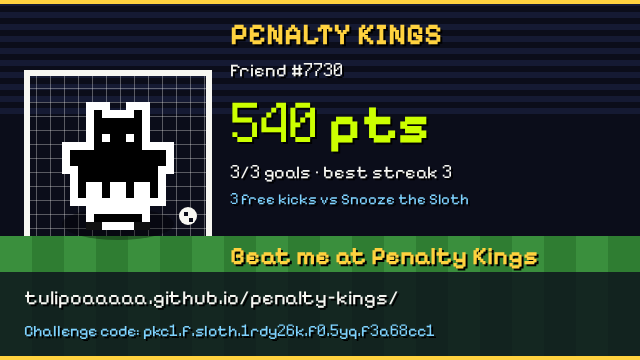
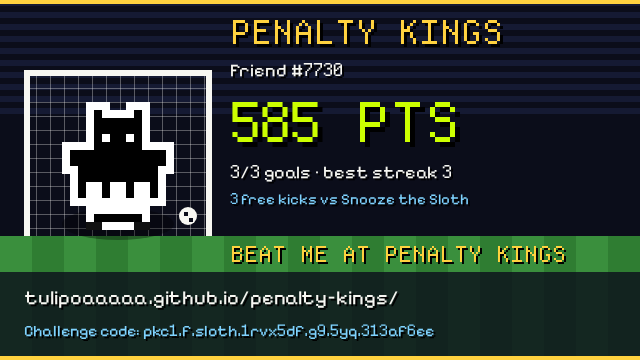
polish: share card headings in the PKHead face (bold Pixelify drew C like O)
The card's heading lines (PENALTY KINGS, the score, the tagline) were
bold Pixelify, whose uppercase C closes into an O. They are now in
PKHead (the Departure Mono subset the DOM and Stage headings use),
uppercase so no glyph falls back mid-word, at multiples of 11 px so its
pixels land whole, with a one-font-pixel hard shadow. The other lines
stay Pixelify 400 (>= 11 px). cardFontsReady now loads every face and
size the card draws before painting; practice.css declares PKHead too.

Tests: tests/game/sharecard-type.test.ts (no bold Pixelify in any line
or fillText, heading glyphs/grid/fit, every font loaded first; failed
before: no head fonts, 700 Pixelify drawn), challenge.test.ts updated
for the uppercase lines, and test-modes/test-practice assert PKHead is
loaded when the (non-empty PNG) card is drawn. Screenshot:
docs/screenshots/greatness/c4-share-card.png.

diff --git a/games/penalty-kings/gfx/sharecard.ts b/games/penalty-kings/gfx/sharecard.ts
@@ -23,26 +23,40 @@ export type ShareCardInput = {
   /** A challenge code, printed small under the link (optional). */
   code?: string;
 };
-export type CardText = { text: string; x: number; y: number; size: number; color: string; bold: boolean; align: "left" | "center" };
+/** One line of the card. `head`: a heading line in PKHead; `font`: the exact canvas font it is drawn (and loaded) in. */
+export type CardText = { text: string; x: number; y: number; size: number; color: string; head: boolean; font: string; align: "left" | "center" };
 export type ShareCardLayout = { width: number; height: number; sprite: { x: number; y: number; scale: number }; texts: CardText[] };
 
 const INK = "#0b0d1a", GOLD = "#ffd23f", VOLT = "#ccff00", PAPER = "#f7f7f2", SKY = "#7fd3ff";
 /** Monospace/pixel faces run about 0.62 em per glyph: used to shrink long lines to fit. */
 export const GLYPH_EM = 0.62;
+/**
+ * Heading face: PKHead, the Departure Mono subset style.css declares (A–Z, digits, number punctuation), as the
+ * DOM and Stage headings use it. Bold Pixelify drew C like O ("PENALTY KINOS"-style misreads on a shared image).
+ * Its glyphs sit on an 11 px grid, 7 px apart: heading sizes are whole multiples of 11 so every pixel lands whole.
+ */
+export const HEAD_EM = 7 / 11;
+const HEAD_GRID = 11;
+export const headCardFont = (px: number) => `${px}px PKHead, PixelifySans, ui-monospace, monospace`;
+export const bodyCardFont = (px: number) => `400 ${px}px PixelifySans, ui-monospace, monospace`;
 const fit = (text: string, size: number, room: number) => Math.max(11, Math.min(size, Math.floor(room / (Math.max(1, text.length) * GLYPH_EM))));
+/** The largest grid size (≤ `size`) at which a heading fits `room`. */
+const fitHead = (text: string, size: number, room: number) => Math.max(HEAD_GRID, Math.floor(Math.min(size, room / (Math.max(1, text.length) * HEAD_EM)) / HEAD_GRID) * HEAD_GRID);
 
 export function shareCardLayout(input: ShareCardInput): ShareCardLayout {
   const left = 230, room = CARD_W - left - 24, texts: CardText[] = [];
-  const add = (text: string, y: number, size: number, color: string, bold = false, x = left, align: CardText["align"] = "left", width = room) => texts.push({ text, x, y, size: fit(text, size, width), color, bold, align });
-  add("PENALTY KINGS", 44, 30, GOLD, true);
+  const add = (text: string, y: number, size: number, color: string, x = left, align: CardText["align"] = "left", width = room) => { const px = fit(text, size, width); texts.push({ text, x, y, size: px, color, head: false, font: bodyCardFont(px), align }); };
+  // Heading lines: uppercase (the subset has no lowercase, and no glyph may fall back mid-word), on the 11 px grid.
+  const head = (text: string, y: number, size: number, color: string) => { const upper = text.toUpperCase(), px = fitHead(upper, size, room); texts.push({ text: upper, x: left, y, size: px, color, head: true, font: headCardFont(px), align: "left" }); };
+  head("PENALTY KINGS", 44, 33, GOLD);
   add(input.name, 76, 18, PAPER);
-  add(`${input.score.toLocaleString("en-US")} ${input.scoreLabel}`, 142, 54, VOLT, true);
+  head(`${input.score.toLocaleString("en-US")} ${input.scoreLabel}`, 142, 55, VOLT);
   add(`${input.goals}/${input.kicks} goals · best streak ${input.bestStreak}`, 178, 18, PAPER);
   if (input.subtitle) add(input.subtitle, 204, 15, SKY);
-  add(CARD_TAGLINE, 264, 30, GOLD, true);
+  head(CARD_TAGLINE, 262, 22, GOLD);
   const link = input.link.replace(/^https?:\/\//, "").replace(/[?#].*$/, ""); // the code gets its own line: a link with it does not fit
-  add(link, 304, 20, PAPER, false, 24, "left", CARD_W - 48);
-  if (input.code) add(`Challenge code: ${input.code}`, 336, 16, SKY, false, 24, "left", CARD_W - 48);
+  add(link, 304, 20, PAPER, 24, "left", CARD_W - 48);
+  if (input.code) add(`Challenge code: ${input.code}`, 336, 16, SKY, 24, "left", CARD_W - 48);
   return { width: CARD_W, height: CARD_H, sprite: { x: 118, y: 222, scale: 8 }, texts };
 }
 
@@ -68,25 +82,34 @@ export function renderShareCard(canvas: HTMLCanvasElement, layout: ShareCardLayo
   c.fillStyle = PAPER; c.beginPath(); c.arc(x + 70, y - 6, 9, 0, Math.PI * 2); c.fill(); // the ball
   c.fillStyle = INK; c.fillRect(x + 66, y - 10, 4, 4); c.fillRect(x + 71, y - 4, 4, 4);
   for (const text of layout.texts) {
-    c.font = `${text.bold ? 700 : 400} ${text.size}px PixelifySans, ui-monospace, monospace`;
-    c.textAlign = text.align; c.textBaseline = "alphabetic";
-    c.fillStyle = "#000000"; c.fillText(text.text, text.x + 2, text.y + 2);
+    c.font = text.font; c.textAlign = text.align; c.textBaseline = "alphabetic";
+    // Headings drop a hard shadow one font pixel (size / 11) down-right: a pixel-true offset at every grid size.
+    const drop = text.head ? text.size / HEAD_GRID : 2;
+    c.fillStyle = "#000000"; c.fillText(text.text, text.x + drop, text.y + drop);
     c.fillStyle = text.color; c.fillText(text.text, text.x, text.y);
   }
   c.fillStyle = GOLD; c.fillRect(0, 0, layout.width, 4); c.fillRect(0, layout.height - 4, layout.width, 4);
   return true;
 }
 
-/** Wait (briefly) for the pixel font so the card never falls back to a system face; never throws. */
-export async function cardFontsReady() {
-  try { await Promise.race([Promise.all([document.fonts.load("700 30px PixelifySans"), document.fonts.load("400 18px PixelifySans")]), new Promise(resolve => setTimeout(resolve, 800))]); } catch { /* no FontFaceSet: system font */ }
+/**
+ * Wait (briefly) for every face and size the card draws (PKHead headings, Pixelify lines) so it never paints in a
+ * fallback face: canvas text alone does not start a web-font download. Never throws.
+ */
+export async function cardFontsReady(layout: ShareCardLayout) {
+  try {
+    const fonts = (globalThis as { document?: { fonts?: { load(font: string, text?: string): Promise<unknown> } } }).document?.fonts;
+    if (!fonts) return;
+    await Promise.race([Promise.all(layout.texts.map(text => fonts.load(text.font, text.text))), new Promise(resolve => setTimeout(resolve, 1500))]);
+  } catch { /* no FontFaceSet: system font */ }
 }
 
 /** Render to an offscreen canvas: a PNG data URL (for <img> and downloads) and, when the browser can, a File for Web Share. */
 export async function cardImage(input: ShareCardInput, rows: readonly string[] | null, halo?: string): Promise<{ url: string; file: File | null; bytes: number }> {
-  await cardFontsReady();
+  const layout = shareCardLayout(input);
+  await cardFontsReady(layout);
   const canvas = document.createElement("canvas");
-  renderShareCard(canvas, shareCardLayout(input), rows, halo);
+  renderShareCard(canvas, layout, rows, halo);
   const url = canvas.toDataURL("image/png");
   let file: File | null = null;
   try {

diff --git a/tests/game/sharecard-type.test.ts b/tests/game/sharecard-type.test.ts
@@ -1,0 +1,71 @@
+import { test } from "node:test";
+import assert from "node:assert/strict";
+import { shareCardLayout, renderShareCard, cardFontsReady, CARD_TAGLINE, HEAD_EM, type ShareCardInput } from "../../games/penalty-kings/gfx/sharecard.ts";
+
+// Polish: bold Pixelify (weight 700) draws an uppercase C like an O, and the share card set its heading lines in it.
+// They are now in the heading face (PKHead: the Departure Mono subset, A–Z, digits and number punctuation), uppercase
+// so no glyph falls back, at multiples of 11 px (its pixel grid) so every pixel lands whole; the rest stays Pixelify 400.
+
+const input: ShareCardInput = { name: "Friend #7730", score: 1420, scoreLabel: "pts", goals: 4, kicks: 5, bestStreak: 3, subtitle: "3 free kicks vs Snooze the Sloth", link: "https://tulipoaaaaa.github.io/penalty-kings/?challenge=x", code: "pkc1.f.sloth.1rdy26k.f0.5yq.f3a68cc1" };
+const practice: ShareCardInput = { name: "The Trialist", score: 12, scoreLabel: "goals", goals: 12, kicks: 20, bestStreak: 5, subtitle: "Free practice", link: "https://tulipoaaaaa.github.io/penalty-kings/" };
+const BOLD_PIXELIFY = /\b(bold|[6-9]00)\b[^,]*PixelifySans/;
+/** What the PKHead subset covers: anything else would fall back to Pixelify mid-word. */
+const HEAD_GLYPHS = /^[ !"%&'()+,\-./0-9:?A-Z]+$/;
+
+/** A 2D context that records the font in force for every fillText. */
+function recorder() {
+  const texts: Array<{ text: string; font: string }> = [];
+  let font = "10px sans-serif";
+  const context: Record<string, unknown> = new Proxy({}, {
+    get: (_t, key) => key === "font" ? font : key === "fillText" ? (text: string) => texts.push({ text, font })
+      : key === "measureText" ? (text: string) => ({ width: text.length * 6 }) : () => undefined,
+    set: (_t, key, value) => { if (key === "font") font = value; return true; },
+  });
+  const canvas = { width: 0, height: 0, getContext: () => context } as unknown as HTMLCanvasElement;
+  return { canvas, texts };
+}
+
+test("share card: no line is set in bold Pixelify; the heading lines are PKHead, uppercase, on its 11 px grid", () => {
+  for (const card of [input, practice]) {
+    const layout = shareCardLayout(card), heads = layout.texts.filter(text => text.head);
+    assert.deepEqual(heads.map(text => text.text), ["PENALTY KINGS", card.scoreLabel === "pts" ? "1,420 PTS" : "12 GOALS", CARD_TAGLINE.toUpperCase()]);
+    for (const text of layout.texts) {
+      assert.doesNotMatch(text.font, BOLD_PIXELIFY, `${text.text}: ${text.font}`);
+      assert.ok(text.font.includes(`${text.size}px`), `${text.text}: the font carries its size`);
+      if (/C/.test(text.text)) assert.ok(text.size >= 10, `${text.text}: a C at ${text.size}px`);
+    }
+    for (const text of heads) {
+      assert.match(text.font, /^\d+px PKHead, PixelifySans\b/, text.text);
+      assert.match(text.text, HEAD_GLYPHS, `${text.text}: every glyph is in the heading face`);
+      assert.equal(text.size % 11, 0, `${text.text}: ${text.size}px is on the 11 px grid`);
+      assert.ok(text.x + text.text.length * text.size * HEAD_EM <= layout.width - 16, `${text.text} fits with a margin`);
+    }
+    for (const text of layout.texts.filter(t => !t.head)) assert.match(text.font, /^400 \d+px PixelifySans\b/, text.text);
+  }
+  // Big numbers step down a grid size rather than overflow.
+  const big = shareCardLayout({ ...practice, score: 123_456, scoreLabel: "pts" }).texts.find(text => text.text === "123,456 PTS")!;
+  assert.ok(big.size % 11 === 0 && big.x + big.text.length * big.size * HEAD_EM <= 640 - 16, `${big.size}px`);
+});
+
+test("share card render: every fillText uses its line's font (never bold Pixelify)", () => {
+  const layout = shareCardLayout(input), { canvas, texts } = recorder();
+  // (With rows still loading, friend.ts draws its own "?" placeholder silhouette: the Friend's file, not card text.
+  // With rows, it caches the sprite on an offscreen canvas: a scratch one here.)
+  const doc = (globalThis as { document?: unknown }).document;
+  (globalThis as { document?: unknown }).document = { createElement: () => recorder().canvas };
+  try { renderShareCard(canvas, layout, Array.from({ length: 16 }, () => "....########....")); } finally { (globalThis as { document?: unknown }).document = doc; }
+  for (const line of layout.texts) {
+    const drawn = texts.filter(text => text.text === line.text);
+    assert.ok(drawn.length >= 2, `${line.text}: drawn with its shadow`);
+    for (const text of drawn) assert.equal(text.font, line.font, line.text);
+  }
+  for (const text of texts) assert.doesNotMatch(text.font, BOLD_PIXELIFY, `${text.text}: ${text.font}`);
+});
+
+test("share card fonts: every face and size the card draws is loaded before it is painted", async () => {
+  const layout = shareCardLayout(input), loads: string[] = [];
+  const doc = (globalThis as { document?: unknown }).document;
+  (globalThis as { document?: unknown }).document = { fonts: { load: async (font: string) => { loads.push(font); return []; } } };
+  try { await cardFontsReady(layout); } finally { (globalThis as { document?: unknown }).document = doc; }
+  for (const text of layout.texts) assert.ok(loads.includes(text.font), `${text.font} loaded`);
+});

diff --git a/tests/game/challenge.test.ts b/tests/game/challenge.test.ts
@@ -7,7 +7,7 @@ import {
   shareRoundOf, CHALLENGE_KICKS, PUBLIC_URL, CHALLENGE_RULE, type Challenge,
 } from "../../games/penalty-kings/game/challenge.ts";
 import { weekKey } from "../../games/penalty-kings/game/rewards.ts";
-import { shareCardLayout, CARD_W, CARD_H, CARD_TAGLINE, GLYPH_EM } from "../../games/penalty-kings/gfx/sharecard.ts";
+import { shareCardLayout, CARD_W, CARD_H, CARD_TAGLINE, GLYPH_EM, HEAD_EM } from "../../games/penalty-kings/gfx/sharecard.ts";
 
 const sample: Challenge = { kind: "penalty", keeper: "sumo", seed: 3_141_592_653, kicks: 5, score: 1420, from: "12345678901234567890" };
 
@@ -102,14 +102,14 @@ test("share card layout: the score, best streak, tagline and public link, all in
   const layout = shareCardLayout({ name: "Friend #12345678901234567890", score: 1420, scoreLabel: "pts", goals: 4, kicks: 5, bestStreak: 3, subtitle: "5 penalties vs Big Bento", link: challengeLink(code), code });
   assert.equal(layout.width, CARD_W); assert.equal(layout.height, CARD_H);
   const all = layout.texts.map(text => text.text);
-  assert.ok(all.includes("1,420 pts"));
+  assert.ok(all.includes("1,420 PTS")); // the heading lines are uppercase in the heading face (sharecard-type.test.ts)
   assert.ok(all.includes("4/5 goals · best streak 3"));
-  assert.ok(all.includes(CARD_TAGLINE) && CARD_TAGLINE === "Beat me at Penalty Kings");
+  assert.ok(all.includes(CARD_TAGLINE.toUpperCase()) && CARD_TAGLINE === "Beat me at Penalty Kings");
   assert.ok(all.some(text => text.startsWith("tulipoaaaaa.github.io/penalty-kings/")));
   assert.ok(all.some(text => text.includes(code)));
   for (const text of layout.texts) {
     assert.ok(text.size >= 11, `${text.text}: ${text.size}px`);
-    assert.ok(text.x >= 0 && text.x + text.text.length * text.size * GLYPH_EM <= CARD_W + 1, `${text.text} fits the width`);
+    assert.ok(text.x >= 0 && text.x + text.text.length * text.size * (text.head ? HEAD_EM : GLYPH_EM) <= CARD_W + 1, `${text.text} fits the width`);
     assert.ok(text.y - text.size >= 0 && text.y <= CARD_H - 4, `${text.text} fits the height`);
   }
   const s = layout.sprite; // 18 × 18 cells (mask + halo) at an integer scale, never resampled

diff --git a/site-src/practice/practice.css b/site-src/practice/practice.css
@@ -4,6 +4,8 @@
 /* B4: digits and number punctuation from Departure Mono (SIL OFL 1.1; assets/DepartureMono-OFL.txt), as in the game's style.css. */
 @font-face { font-family: PixelifySans; src: url("./assets/departure-mono-pk-subset.woff2") format("woff2"); font-weight: 400; font-display: swap; unicode-range: U+0030-0039, U+002B-002E, U+0025, U+00D7, U+2212; }
 @font-face { font-family: PixelifySans; src: url("./assets/departure-mono-pk-subset.woff2") format("woff2"); font-weight: 700; font-display: swap; unicode-range: U+0030-0039, U+002B-002E, U+0025, U+00D7, U+2212; }
+/* The heading face (A–Z, digits), as in the game's style.css: the share card's heading lines are drawn in it. */
+@font-face { font-family: PKHead; src: url("./assets/departure-mono-pk-subset.woff2") format("woff2"); font-weight: 400 700; font-display: swap; }
 
 :root { --pk-ink: #0b0d1a; --pk-panel: #151a33; --pk-line: #2a3160; --pk-volt: #ccff00; --pk-gold: #ffd23f; --pk-red: #ff5a6e; --pk-paper: #f7f7f2; --top: 40px; color-scheme: dark; }
 * { box-sizing: border-box; }
